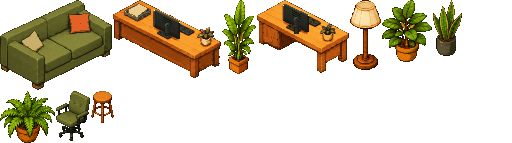
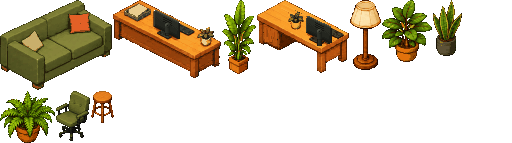
fix(desks): lounge diagonal desk puts the monitor between the viewer and the seated figure
The monitor back, keyboard and shadows move along the desk's long axis to
the seat column; the plant takes the old monitor place; the lounge decor
slots follow. art/desks/build.py gets a lounge step (original kept in
art/desks/orig/lounge.png). New test for the art. README path typo fixed.

Changed region(s): [[0.5312, 0.028, 0.6875, 0.3077]]

diff --git a/art/desks/build.py b/art/desks/build.py
@@ -1,11 +1,14 @@
 """Desk and chair art that the seated pose needs (assets/scenes/<design>/objects.png). Starts from art/desks/orig/<design>.png, so it can be run again.
 
-  python art/desks/build.py [lobby] [greenhouse]      (default: both)
+  python art/desks/build.py [lobby] [lounge] [greenhouse]      (default: all)
 
 lobby: the monitor backs stand in the middle of the desk, between the viewer and the figure who sits behind it.
   - desk-b: the existing monitor back (it stood at the right end) moves to the middle; its old place is plain desk top again.
   - desk (the laptop desk): the flat closed laptop becomes an open laptop seen from behind: a lid back in the monitor's own colours, with the back edge of the
     keyboard deck under it. The sprite grows 4 rows upward (rect y 93 -> 89, the rows above it are empty in the atlas), the anchor moves down by 4.
+lounge: the diagonal desk (rect [257, 0, 92, 73]) had its monitor at the left end and the seat at the right, so the monitor stood beside the figure. The monitor with its
+    keyboard and shadows moves 23 right and 12 down along the desk so it stands between the viewer and the figure; the plant moves to the old monitor place.
+    The decor slots of the lounge desk (assets/decor/decor.json) move with the monitor.
 greenhouse: the open table (legs only) shows what is under it, so the office chair of its desks gets a long stem and its star base is lowered 16 rows
     (kind chair-open, a new rect under the old chair; the atlas grows by 13 rows at the bottom). The chair of the lead desk (front panel) is not changed.
 """
@@ -78,6 +81,73 @@ def lobby(im):
     return im
 
 
+LOUNGE_BOX = (257, 0, 92, 73)  # the desk rect in the atlas
+WOOD = {(250, 163, 46), (250, 159, 42), (247, 153, 41), (251, 171, 56), (235, 141, 38), (234, 163, 54), (208, 112, 28)}  # desk top colours
+GREY = {(42, 44, 36), (36, 38, 31), (30, 32, 26), (26, 24, 18), (55, 58, 48), (75, 78, 66), (46, 48, 40), (26, 27, 22), (23, 23, 18), (37, 38, 32), (34, 35, 29), (29, 30, 25)}
+KEYS = {(69, 66, 47), (55, 45, 31), (52, 40, 26)}
+LEAF = {(31, 25, 16), (147, 112, 34), (137, 92, 33)}
+LOUNGE_MONITOR_MOVE = (23, 12)  # monitor, keyboard and their shadows
+LOUNGE_PLANT_MOVE = (-32, -12)
+
+
+def lounge(im):
+    ox, oy, w, h = LOUNGE_BOX
+    px = im.load()
+    src = im.copy().load()
+
+    def col(x, y):
+        p = src[ox + x, oy + y]
+        return p[:3] if p[3] else None
+
+    def top_min(x):  # upper edge of the desk top: the left slope, then the back edge
+        return max(15 - 0.52 * (x - 1), 1 + 0.53 * (x - 28))
+
+    def top_max(x):  # lower edge: the front edge, then the right end
+        return min(15 + 0.53 * (x - 1), 48.5 - 0.54 * (x - 64))
+
+    def inside(x, y):  # on the desk top, one pixel off the outline
+        return 1 <= x <= 90 and top_min(x) + 1 <= y <= top_max(x) - 1
+
+    def hull(colours, xs, ys):  # every pixel between the first and the last pixel of those colours in a column
+        out = set()
+        for x in xs:
+            hit = [y for y in ys if col(x, y) in colours]
+            if hit:
+                out.update((x, y) for y in range(min(hit), max(hit) + 1))
+        return out
+
+    stuff = {(x, y) for y in range(h) for x in range(w) if inside(x, y) and col(x, y) is not None and col(x, y) not in WOOD}  # props and their shadows
+    mon = {p for p in stuff if p[0] <= 51} | hull(GREY, range(22, 52), range(0, 36))
+    key = ({p for p in stuff if 52 <= p[0] <= 63 and p[1] <= 28 and p not in mon} | hull(GREY | KEYS, range(52, 64), range(15, 27))) - mon
+    leaf = ({p for p in stuff if p[0] >= 62 and 20 <= p[1] <= 44 and p not in mon and p not in key} | hull(LEAF | GREY | KEYS, range(62, 81), range(22, 43))) - mon - key
+    assert len(stuff - mon - key - leaf) == 0
+
+    def grown(pts, r):
+        out = set(pts)
+        for (x, y) in pts:
+            out.update((x + a, y + b) for a in range(-r, r + 1) for b in range(-r, r + 1) if inside(x + a, y + b))
+        return out
+
+    clear = grown(mon, 2) | grown(key, 1) | grown(leaf, 1)
+    slope = 33 / 63  # the desk's long axis; plain desk top is copied from along it, which keeps the grain bands
+
+    def plain(x, y):
+        for sign in (1, -1):
+            for s in range(1, 70):
+                nx, ny = x + sign * s, y + sign * round(slope * s)
+                if 0 <= nx < w and 0 <= ny < h and (nx, ny) not in clear and col(nx, ny) in WOOD:
+                    return src[ox + nx, oy + ny]
+        raise ValueError((x, y))
+
+    for (x, y) in clear:
+        px[ox + x, oy + y] = plain(x, y)
+    for pts, (dx, dy) in ((mon, LOUNGE_MONITOR_MOVE), (key, LOUNGE_MONITOR_MOVE), (leaf, LOUNGE_PLANT_MOVE)):
+        for (x, y) in pts:
+            if inside(x + dx, y + dy):
+                px[ox + x + dx, oy + y + dy] = src[ox + x, oy + y]
+    return im
+
+
 def greenhouse(im):
     ox, oy, w, h = 218, 81, 35, 50
     d = 16  # rows the base moves down
@@ -102,10 +172,10 @@ def greenhouse(im):
 
 
 def main(argv):
-    want = argv or ["lobby", "greenhouse"]
+    want = argv or ["lobby", "lounge", "greenhouse"]
     for design in want:
         im = Image.open(os.path.join(ORIG, f"{design}.png")).convert("RGBA")
-        im = {"lobby": lobby, "greenhouse": greenhouse}[design](im)
+        im = {"lobby": lobby, "lounge": lounge, "greenhouse": greenhouse}[design](im)
         im.save(os.path.join(OUT, design, "objects.png"))
         print(f"{design}: {im.size}")
 
